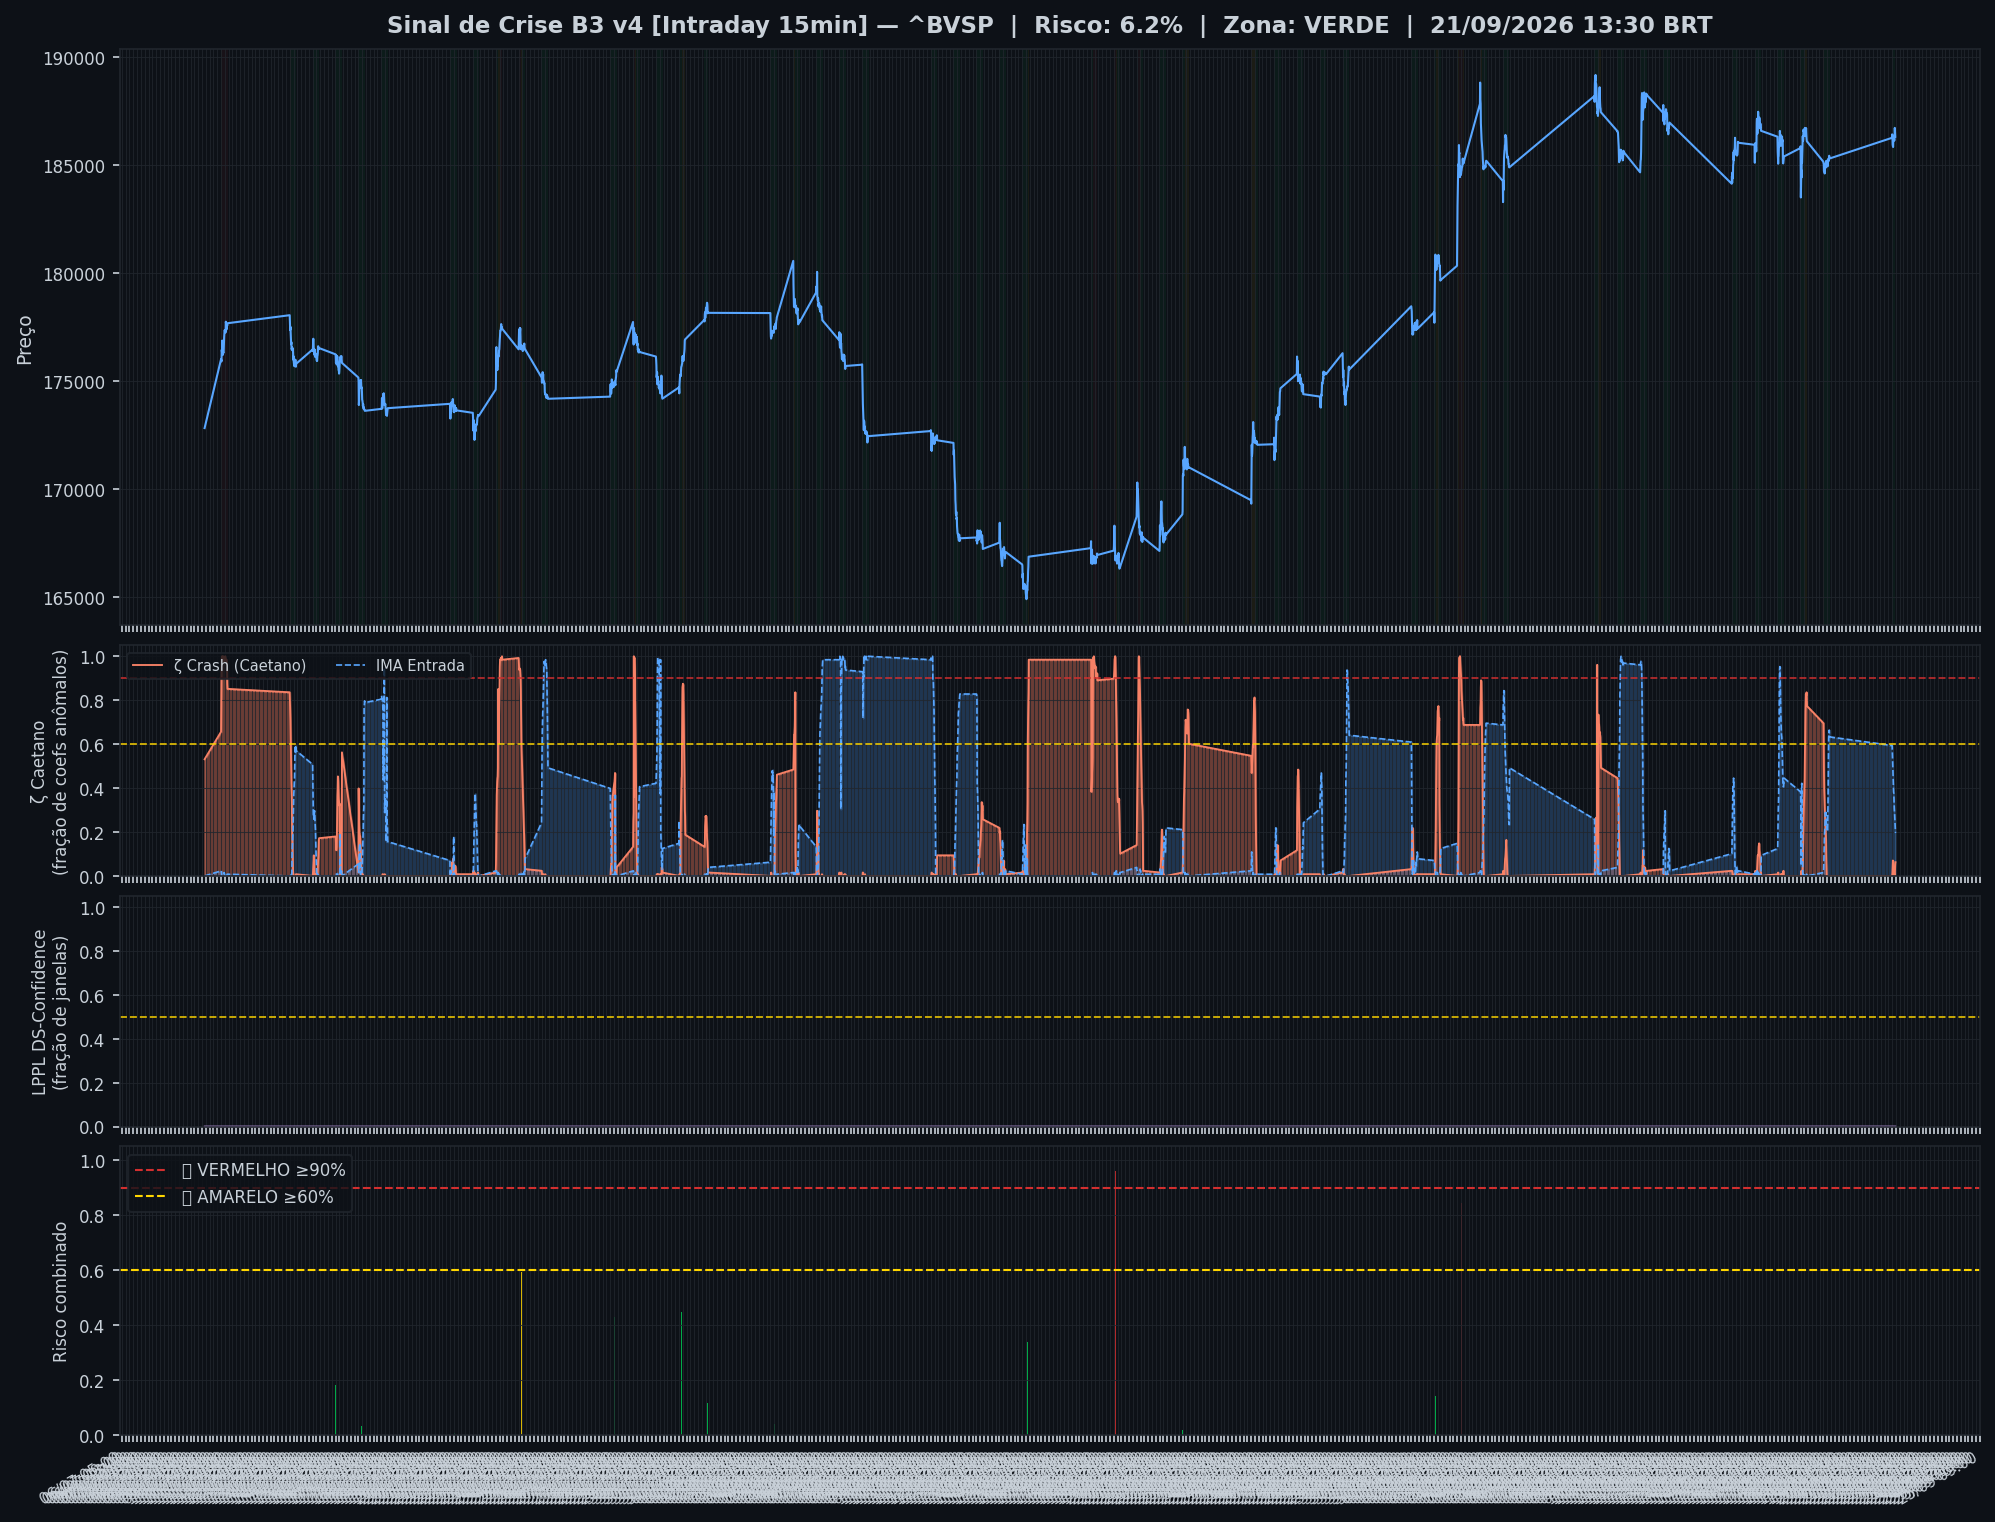
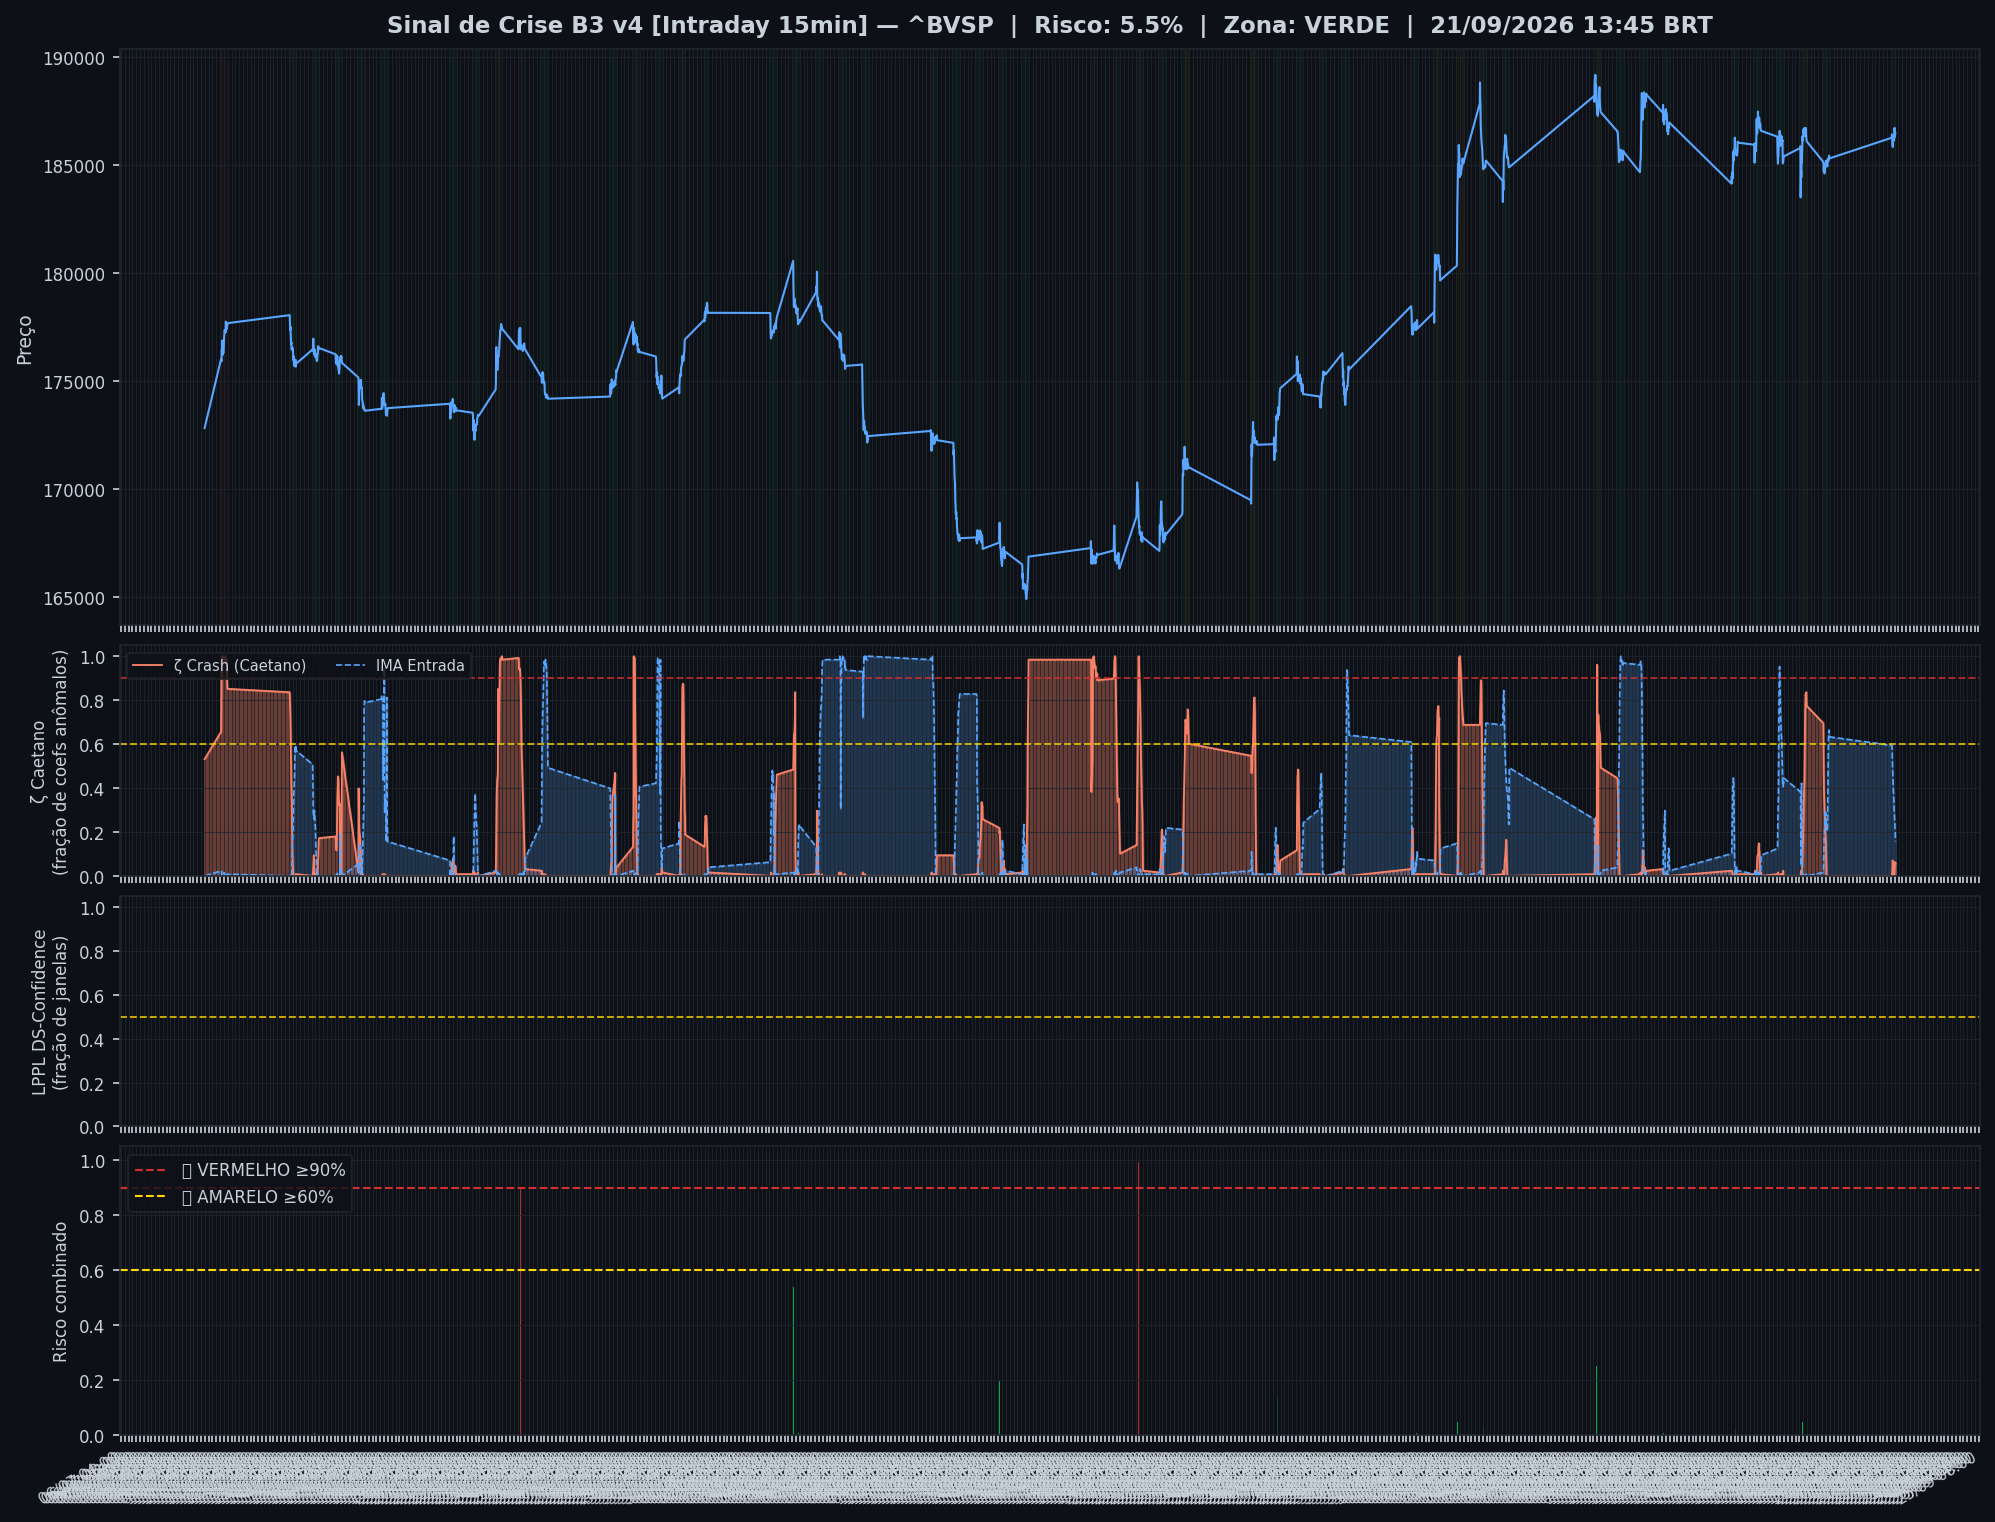
🤖 Auto: Sinal 21/09/2026 14:31

diff --git a/content/intraday/2026-09-21.md b/content/intraday/2026-09-21.md
@@ -1,20 +1,20 @@
 ---
-title: "🟢 Intraday 21/09/2026 13:30 BRT — VERDE"
+title: "🟢 Intraday 21/09/2026 13:45 BRT — VERDE"
 date: 2026-09-21
 tags: [intraday]
 ---
 
-> [!success] 🟢 **VERDE** — Risco 6% · ▲ +1 p.p. vs leitura anterior
+> [!success] 🟢 **VERDE** — Risco 5% · ▼ -1 p.p. vs leitura anterior
 > `█░░░░░░░░░░░░░░░░░░░`
 > Mercado sem sinais relevantes de estresse.
 
 
 | Indicador | Valor |
 |---|---|
-| 🔴 ζ Crash — severidade da queda em curso | **6%** |
-| 🔵 ζ Entrada — estrutura de fundo | 20% |
+| 🔴 ζ Crash — severidade da queda em curso | **5%** |
+| 🔵 ζ Entrada — estrutura de fundo | 16% |
 | 🫧 LPPL DS-Confidence | 0% |
-| 📊 Ibovespa | 186.312 pts |
+| 📊 Ibovespa | 186.492 pts |
 
 ![Gráfico do sinal](../graficos/sinal_intraday.png)
 
@@ -22,6 +22,7 @@ tags: [intraday]
 
 | Data | Zona | Risco | IMA Crash | Entrada | LPPL |
 |---|---|---|---|---|---|
+| 2026-09-21 13:45 | 🟢 VERDE | **5%** | 5% | 16% | 0% |
 | 2026-09-21 13:30 | 🟢 VERDE | **6%** | 6% | 20% | 0% |
 | 2026-09-21 13:15 | 🟢 VERDE | **5%** | 5% | 23% | 0% |
 | 2026-09-21 13:00 | 🟢 VERDE | **3%** | 3% | 25% | 0% |
@@ -51,7 +52,6 @@ tags: [intraday]
 | 2026-09-18 14:00 | 🟢 VERDE | **0%** | 0% | 22% | 0% |
 | 2026-09-18 13:45 | 🟢 VERDE | **0%** | 0% | 21% | 0% |
 | 2026-09-18 13:30 | 🟢 VERDE | **0%** | 0% | 23% | 0% |
-| 2026-09-18 13:15 | 🟢 VERDE | **5%** | 5% | 22% | 0% |
 
 ## Monitor Multi-Ativo
 
@@ -59,36 +59,36 @@ tags: [intraday]
 
 | Zona | Ativo | Setor | IMA Crash | IMA Entrada |
 |---|---|---|---|---|
-| 🟢 | **USD/BRL** | Câmbio | 1.6% | 52.3% |
-| 🟢 | **VALE** | Mineração | 0.0% | 53.9% |
-| 🟢 | **ITAUUNIBANCO** | Financeiro | 0.0% | 53.9% |
-| 🟢 | **PETROBRAS** | Petróleo | 0.0% | 53.9% |
-| 🟢 | **PETROBRAS** | Petróleo | 0.0% | 53.9% |
-| 🟢 | **AXIA ENERGIA** | Energia | 0.0% | 53.9% |
-| 🟢 | **SABESP** | Saneamento | 0.0% | 53.9% |
-| 🟢 | **BRADESCO** | Financeiro | 0.0% | 53.9% |
-| 🟢 | **B3** | Financeiro | 0.0% | 53.9% |
-| 🟢 | **ITAUSA** | Financeiro | 0.0% | 53.9% |
-| 🟢 | **WEG** | Industrial | 0.0% | 53.9% |
-| 🟢 | **BTGP BANCO** | Financeiro | 0.0% | 53.9% |
-| 🟢 | **EMBRAER** | Outros | 0.0% | 62.5% |
-| 🟢 | **BRASIL** | Financeiro | 0.0% | 53.9% |
-| 🟢 | **AMBEV S/A** | Consumo | 0.0% | 53.9% |
-| 🟢 | **ENEVA** | Energia | 0.0% | 53.9% |
-| 🟢 | **EQUATORIAL** | Energia | 0.0% | 53.9% |
-| 🟢 | **PRIO** | Petróleo | 0.0% | 53.9% |
-| 🟢 | **COPEL** | Energia | 0.0% | 53.9% |
-| 🟢 | **VIBRA** | Energia | 0.0% | 53.9% |
-| 🟢 | **ULTRAPAR** | Outros | 0.0% | 53.9% |
-| 🟢 | **REDE D OR** | Saúde | 0.0% | 53.9% |
-| 🟢 | **LOCALIZA** | Aluguel | 0.0% | 53.9% |
-| 🟢 | **GERDAU** | Siderurgia | 0.0% | 53.9% |
-| 🟢 | **SUZANO S.A.** | Papel/Celulose | 0.0% | 53.9% |
-| 🟢 | **RAIADROGASIL** | Outros | 0.0% | 53.9% |
+| 🟢 | **VALE** | Mineração | 1.6% | 52.3% |
+| 🟢 | **ITAUUNIBANCO** | Financeiro | 1.6% | 52.3% |
+| 🟢 | **PETROBRAS** | Petróleo | 1.6% | 52.3% |
+| 🟢 | **PETROBRAS** | Petróleo | 1.6% | 52.3% |
+| 🟢 | **AXIA ENERGIA** | Energia | 1.6% | 52.3% |
+| 🟢 | **SABESP** | Saneamento | 1.6% | 52.3% |
+| 🟢 | **BRADESCO** | Financeiro | 1.6% | 52.3% |
+| 🟢 | **B3** | Financeiro | 1.6% | 52.3% |
+| 🟢 | **ITAUSA** | Financeiro | 1.6% | 52.3% |
+| 🟢 | **WEG** | Industrial | 1.6% | 52.3% |
+| 🟢 | **BTGP BANCO** | Financeiro | 1.6% | 52.3% |
+| 🟢 | **EMBRAER** | Outros | 1.6% | 52.3% |
+| 🟢 | **BRASIL** | Financeiro | 1.6% | 52.3% |
+| 🟢 | **AMBEV S/A** | Consumo | 1.6% | 52.3% |
+| 🟢 | **ENEVA** | Energia | 1.6% | 52.3% |
+| 🟢 | **EQUATORIAL** | Energia | 1.6% | 52.3% |
+| 🟢 | **PRIO** | Petróleo | 1.6% | 52.3% |
+| 🟢 | **COPEL** | Energia | 1.6% | 52.3% |
+| 🟢 | **VIBRA** | Energia | 1.6% | 52.3% |
+| 🟢 | **ULTRAPAR** | Outros | 1.6% | 52.3% |
+| 🟢 | **REDE D OR** | Saúde | 1.6% | 52.3% |
+| 🟢 | **LOCALIZA** | Aluguel | 1.6% | 52.3% |
+| 🟢 | **GERDAU** | Siderurgia | 1.6% | 52.3% |
+| 🟢 | **SUZANO S.A.** | Papel/Celulose | 1.6% | 52.3% |
+| 🟢 | **RAIADROGASIL** | Outros | 1.6% | 52.3% |
+| 🟢 | **USD/BRL** | Câmbio | 0.8% | 48.4% |
 
 ![Monitor multi-ativo](../graficos/multi_intraday.png)
 
-*Página atualizada em 21/09/2026 14:16 BRT (leitura da barra de 2026-09-21 13:30 BRT).*
+*Página atualizada em 21/09/2026 14:31 BRT (leitura da barra de 2026-09-21 13:45 BRT).*
 
 > [!info]- Como interpretar (clique para expandir)
 > - **ζ Crash**: fração dos coeficientes wavelet acima do corte (Caetano & Yoneyama 2009). Escala absoluta: ζ=0,90 = 90% dos coeficientes anômalos — historicamente, quedas com ζ≥0,90 foram mais fundas e mais longas. **Mede a severidade do movimento em curso, não prevê o início da queda.**

diff --git a/content/index.md b/content/index.md
@@ -8,19 +8,19 @@ tags: [home]
 
 Monitoramento diário e intraday do Ibovespa — **IMA Wavelet** (Prof. Marco Antonio Leonel Caetano, ITA/INSPER) + **LPPL DS-Confidence** (Prof. Didier Sornette, ETH-Zurich).
 
-*Última atualização: 21/09/2026 14:16 BRT · ^BVSP · Intraday 15min · v4*
+*Última atualização: 21/09/2026 14:31 BRT · ^BVSP · Intraday 15min · v4*
 
-> [!success] 🟢 **VERDE** — Risco 6% · ▲ +1 p.p. vs leitura anterior
+> [!success] 🟢 **VERDE** — Risco 5% · ▼ -1 p.p. vs leitura anterior
 > `█░░░░░░░░░░░░░░░░░░░`
 > Mercado sem sinais relevantes de estresse.
 
 
 | Indicador | Valor |
 |---|---|
-| 🔴 ζ Crash — severidade da queda em curso | **6%** |
-| 🔵 ζ Entrada — estrutura de fundo | 20% |
+| 🔴 ζ Crash — severidade da queda em curso | **5%** |
+| 🔵 ζ Entrada — estrutura de fundo | 16% |
 | 🫧 LPPL DS-Confidence | 0% |
-| 📊 Ibovespa | 186.312 pts |
+| 📊 Ibovespa | 186.492 pts |
 
 **Multi-ativo:** 0% em tensão (0🔴 0🟡 de 26 ativos)
 
@@ -32,7 +32,7 @@ Monitoramento diário e intraday do Ibovespa — **IMA Wavelet** (Prof. Marco An
 
 | Data | Zona | Risco | IMA | LPPL |
 |---|---|---|---|---|
-| [21 Sep 2026](diario/2026-09-21) | 🟢 VERDE | **6%** | 6% | 0% |
+| [21 Sep 2026](diario/2026-09-21) | 🟢 VERDE | **5%** | 5% | 0% |
 | [18 Sep 2026](diario/2026-09-18) | 🟢 VERDE | **0%** | 0% | 0% |
 
 ## Navegação

diff --git a/content/historico.md b/content/historico.md
@@ -7,6 +7,7 @@ tags: [historico]
 
 | Data | Modo | Zona | Risco | IMA | LPPL |
 |---|---|---|---|---|---|
+| 2026-09-21 13:45 | intraday | 🟢 VERDE | 5% | 5% | 0% |
 | 2026-09-21 13:30 | intraday | 🟢 VERDE | 6% | 6% | 0% |
 | 2026-09-21 13:15 | intraday | 🟢 VERDE | 5% | 5% | 0% |
 | 2026-09-21 13:00 | intraday | 🟢 VERDE | 3% | 3% | 0% |
